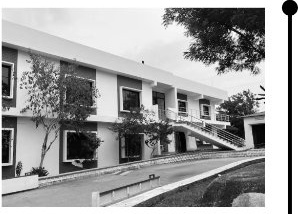
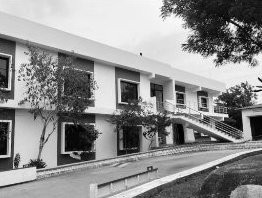
fix: remove image line artifacts and ensure timeline line is continuous without gaps

diff --git a/src/components/newspaper/NewspaperPages.tsx b/src/components/newspaper/NewspaperPages.tsx
@@ -225,48 +225,63 @@ export const Page03Education: React.FC = () => {
         <div className="w-full border-b border-[#111111] mt-3 sm:mt-4" />
       </div>
 
-      {/* 3-Row Education Timeline Grid */}
-      <div className="space-y-6 sm:space-y-8 relative">
-        {milestones.map((item, index) => (
-          <div
-            key={index}
-            className="grid grid-cols-1 sm:grid-cols-[1fr_auto_1.15fr] gap-4 sm:gap-6 items-center relative"
-          >
-            {/* Left Column: Campus Photograph */}
-            <div className="w-full aspect-[298/200] max-h-[175px] bg-[#ebe7dc] border border-[#141210]/60 overflow-hidden shadow-xs">
-              <img
-                src={item.image}
-                alt={item.alt}
-                className="w-full h-full object-cover grayscale contrast-110 block"
-                loading="eager"
-              />
-            </div>
+      {/* 3-Row Education Timeline Grid with continuous spine */}
+      <div className="relative">
+        {milestones.map((item, index) => {
+          const isFirst = index === 0;
+          const isLast = index === milestones.length - 1;
 
-            {/* Center Timeline Node Dot & Spine Segment */}
-            <div className="hidden sm:flex flex-col items-center self-stretch relative w-5">
-              {/* Vertical timeline line */}
-              <div className="w-[2.5px] bg-[#111111] h-full absolute top-0 bottom-0 left-1/2 -translate-x-1/2" />
-              {/* Timeline Solid Node Dot */}
-              <div className="w-3.5 h-3.5 rounded-full bg-[#111111] ring-4 ring-[#faf9f6] relative z-10 my-auto" />
-            </div>
+          return (
+            <div
+              key={index}
+              className={`grid grid-cols-[1fr_28px_1.15fr] sm:grid-cols-[1fr_36px_1.15fr] gap-3 sm:gap-6 items-start relative ${
+                isLast ? 'pb-2' : 'pb-6 sm:pb-8'
+              }`}
+            >
+              {/* Left Column: Campus Photograph (Clean without borders or stray lines) */}
+              <div className="w-full aspect-[262/185] bg-[#ebe7dc] overflow-hidden shadow-xs">
+                <img
+                  src={item.image}
+                  alt={item.alt}
+                  className="w-full h-full object-cover grayscale contrast-110 block"
+                  loading="eager"
+                />
+              </div>
 
-            {/* Right Column: Educational Ledger */}
-            <div className="flex flex-col justify-center">
-              <span className="font-serif text-sm sm:text-base text-[#111111] mb-1 font-normal block">
-                {item.year}
-              </span>
-              <h3 className="font-serif font-bold text-sm sm:text-base md:text-[17px] text-[#111111] leading-snug">
-                {item.title}
-              </h3>
-              <p className="font-serif text-xs sm:text-sm md:text-[15px] text-[#2c2825] mt-1 leading-snug">
-                {item.institution}
-              </p>
-              <span className="font-serif font-bold text-sm sm:text-base text-[#111111] mt-2 block">
-                {item.score}
-              </span>
+              {/* Center Timeline Spine Segment */}
+              <div className="flex flex-col items-center self-stretch relative h-full">
+                {/* Continuous Vertical Timeline Line (Connecting seamlessly from Circle 1 down past Circle 3) */}
+                <div
+                  className={`w-[2.5px] bg-[#111111] absolute left-1/2 -translate-x-1/2 z-0 ${
+                    isFirst
+                      ? 'top-[9px] bottom-[-4px]'
+                      : isLast
+                      ? 'top-[-4px] bottom-[-32px]'
+                      : 'top-[-4px] bottom-[-4px]'
+                  }`}
+                />
+                {/* Solid Circular Node Dot aligned with the Year */}
+                <div className="w-3.5 h-3.5 rounded-full bg-[#111111] relative z-10 mt-[2px] shrink-0" />
+              </div>
+
+              {/* Right Column: Educational Ledger */}
+              <div className="flex flex-col justify-start">
+                <span className="font-serif text-sm sm:text-base text-[#111111] font-normal leading-none mb-1.5 block">
+                  {item.year}
+                </span>
+                <h3 className="font-serif font-bold text-sm sm:text-base md:text-[17px] text-[#111111] leading-snug">
+                  {item.title}
+                </h3>
+                <p className="font-serif text-xs sm:text-sm md:text-[15px] text-[#2c2825] mt-1 leading-snug">
+                  {item.institution}
+                </p>
+                <span className="font-serif font-bold text-sm sm:text-base text-[#111111] mt-2 block">
+                  {item.score}
+                </span>
+              </div>
             </div>
-          </div>
-        ))}
+          );
+        })}
       </div>
     </div>
   );
